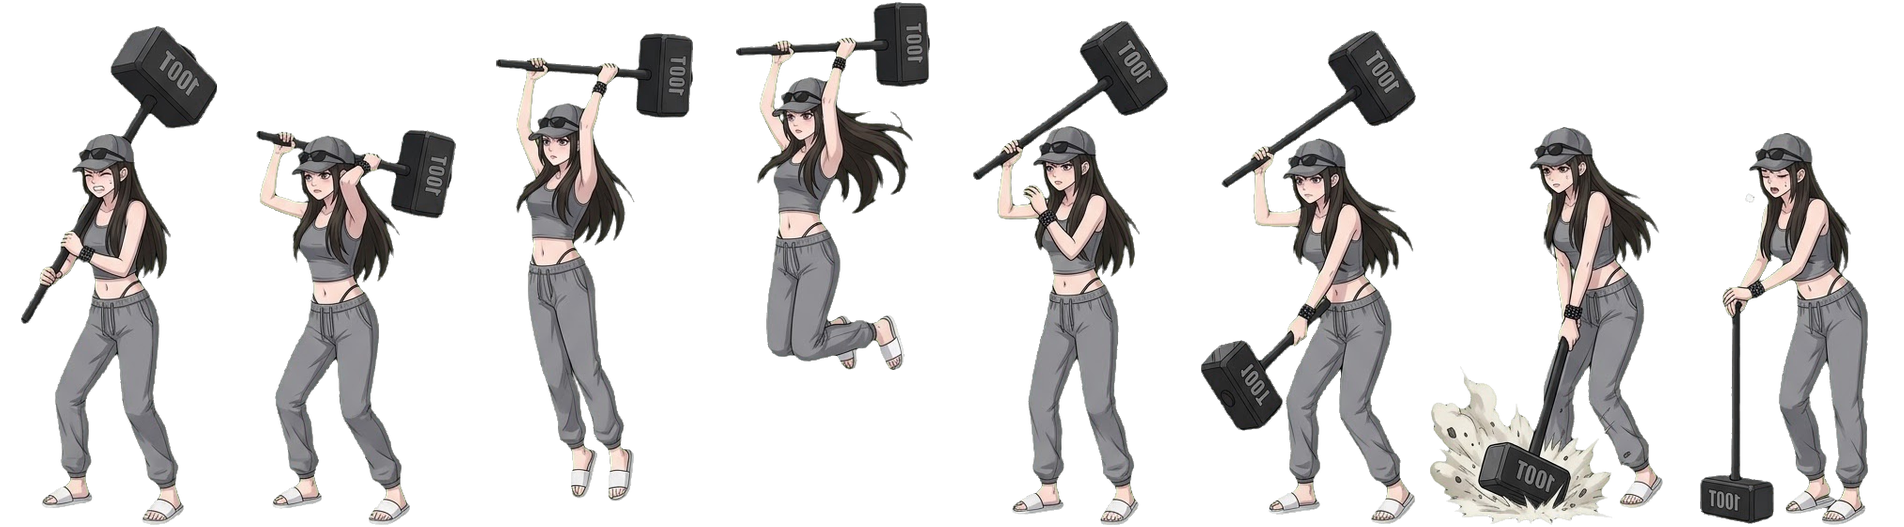
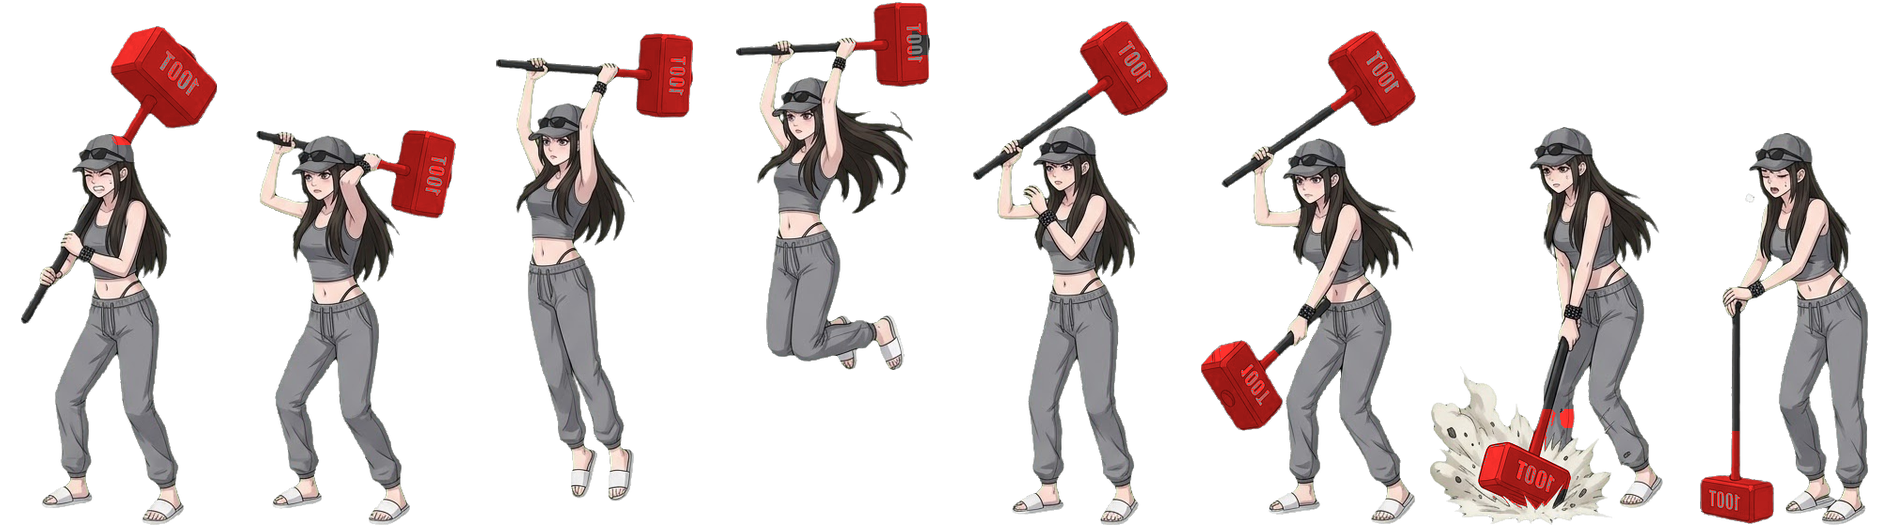
小妮攻擊動畫放慢（5／4 格每秒）、大錘改紅色；新增 hitFrame 讓傷害對上打擊那一格（版本 2026-11-15.18）
Claude-Session: https://claude.ai/code/session_01J1mi4tQsbQufTfnNbsrTar

diff --git a/js/render.js b/js/render.js
@@ -204,8 +204,9 @@ ML.createRenderer = function (canvas, game, config, sprite, effects, getLegend, 
         };
       } else if (!big) {
         // 普攻：衝過去砍一刀（2026-11-13 放慢放大：衝撞時間拉長、刀光變大、多一圈衝擊波）
-        v.lunge = { to: e.hits[0].id, t: 0, dur: 0.62 };
-        delay = 0.31;
+        const ai = sprite.animInfo(hero.heroId, 'attack'), hitT = ai && ai.hit;   // 動畫有登記打中的那一格（hitFrame）：衝撞和傷害的時間跟著它走（小妮的大錘慢動作）
+        v.lunge = { to: e.hits[0].id, t: 0, dur: hitT ? hitT * 2 : 0.62 };
+        delay = hitT || 0.31;
         onHit = tv => {
           effects.slash(tv.x, tv.y, Math.atan2(tv.y - v.y, tv.x - v.x), tv.size * 0.9, color);
           effects.sparks(tv.x, tv.y, '#ffe9a8', 22, 460, 6, 0.7);
@@ -223,8 +224,9 @@ ML.createRenderer = function (canvas, game, config, sprite, effects, getLegend, 
         if (!tv0) return;
 
         if (style === 'slam') {            // 猛將：衝過去重擊，地面裂開
-          after(charge, () => { v.lunge = { to: tv0.id, t: 0, dur: 0.72 }; startAnim(v, 'skill'); });
-          delay = charge + 0.36;
+          const si = sprite.animInfo(hero.heroId, 'skill'), hitS = si && si.hit;   // 同上：技能動畫有 hitFrame 就照它的時間
+          after(charge, () => { v.lunge = { to: tv0.id, t: 0, dur: hitS ? hitS * 2 : 0.72 }; startAnim(v, 'skill'); });
+          delay = charge + (hitS || 0.36);
           onHit = tv => {
             const ang = Math.atan2(tv.y - v.y, tv.x - v.x);
             effects.slash(tv.x, tv.y, ang, tv.size * 1.3, color);

diff --git a/js/config.js b/js/config.js
@@ -284,8 +284,8 @@ window.GAME_CONFIG = {
     // 蕃薯：待機＝吃薯條（8 格，每秒 3 格連播 2 輪）；攻擊／技能＝撲出去咬（8 格，第 5 格咬下去；普攻 13 格/秒、技能 11 格/秒）
     xiaoni: {
       idle: { src: 'xiaoni_idle.png', frames: 5, cw: 343, ch: 374, ground: 372, fps: 3, repeat: 2 },   // 待機：坐上沙發、躺著玩手機，旁邊對話泡泡裡的手機遊戲畫面會換（沒有跳起來的動作了）
-      attack: { src: 'xiaoni_attack.png', frames: 8, cw: 238, ch: 527, ground: 524, fps: 8 },   // 攻擊：100T 黑色大錘子跳起來慢慢往下砸（第 7 格砸中地面；故意放慢，普攻約 1 秒）
-      skill: { src: 'xiaoni_attack.png', frames: 8, cw: 238, ch: 527, ground: 524, fps: 6 },   // 技能：同一組，更慢更有份量（約 1.3 秒）
+      attack: { src: 'xiaoni_attack.png', frames: 8, cw: 238, ch: 527, ground: 524, fps: 5, hitFrame: 7 },   // 攻擊：100T 紅色大錘子跳起來慢慢往下砸（第 7 格砸中地面；2026-11-15 咖哩嫌太快：8→5 格/秒，整段約 1.6 秒，傷害數字對在第 7 格約 1.3 秒時）
+      skill: { src: 'xiaoni_attack.png', frames: 8, cw: 238, ch: 527, ground: 524, fps: 4, hitFrame: 7 },   // 技能：同一組，更慢更有份量（約 2 秒，第 7 格約 1.6 秒時打中）
       walk: { src: 'xiaoni_walk.png', frames: 8, cw: 252, ch: 394, ground: 391, fps: 9 },   // 走路循環：一手拿手機邊走（8 格，原圖本來就面向左）
     },
     yam: {

diff --git a/js/hero-sprite.js b/js/hero-sprite.js
@@ -92,7 +92,7 @@ ML.createHeroSprite = function (heroes, config, basePath) {
     // 這隻武將有沒有這個動作、圖準備好了沒；回傳 { 秒數 } 或 null
     animInfo(heroId, name) {
       const m = animMeta(heroId, name);
-      return m && loadSheet(heroId, name) ? { dur: m.frames * (m.repeat || 1) / (m.fps || 4) } : null;
+      return m && loadSheet(heroId, name) ? { dur: m.frames * (m.repeat || 1) / (m.fps || 4), hit: m.hitFrame ? (m.hitFrame - 0.5) / (m.fps || 4) : null } : null;   // hit：打中那一格是第幾秒（config 有寫 hitFrame 才有；動畫慢的武將用它讓傷害數字對上打擊那一格）
     },
     // (x, y) 是角色中心，size 是角色高度。state = { pose, poseTime, flash(0~1 閃白強度), lean(身體傾斜角度), facing(-1 面向左 ~ 1 面向右) }
     draw(ctx, hero, x, y, size, state) {

diff --git a/js/version.js b/js/version.js
@@ -1,3 +1,3 @@
 // 目前的版本號。每次有更新要上線，就跑 python3 tools/bump_version.py（會同時改這個檔和 version.json）。
 // 直播畫面會定時去讀 version.json，發現跟自己不一樣就自動更新（見 js/updater.js）。
-window.APP_VERSION = '2026-11-15.17';
+window.APP_VERSION = '2026-11-15.18';

diff --git a/CLAUDE.md b/CLAUDE.md
@@ -156,6 +156,7 @@
   - 西當普利鼠（2026-11-14 咖哩第五隻）：寫實倉鼠穿綠金鎧甲、拿羽扇，`heroId: hamster`，謀士（技能演出＝法陣落雷），血 600／攻 68／防 28，技能「起司風暴」。名字以外的設定是 Claude 先定的。**第一版圖（橘棕色卡通老鼠）臉、耳朵、鼻子、米白嘴部、尾巴都是《湯姆貓與傑利鼠》的傑利鼠，違反「不可使用其他作品角色」，沒有用**；咖哩改成寫實倉鼠後才採用（來源由咖哩自行負責）。待機動畫＝吃起司蛋糕（`assets/heroes/hamster_cake.png`，Gemini 生成，**10 格**，每秒 4 格連播 2 輪）。**這張圖的格子排列是 3＋3＋4（不是整齊的 4x2）**，所以 `make_anim_sheet.py` 新增 `--row-counts 3,3,4`（每列各自平分寬度），這組用 `--faces right --row-counts 3,3,4 --match-height 301 --equalize area`（原圖面向右；`match-height` 是單張圖裡角色的高度，因為角色橫向很寬、單張圖被縮得比 396 矮，要先量）。**攻擊／技能＝換成大錘子跳起來往下重擊**（`hamster_attack.png`，8 格，第 6 格落地砸中；普攻 16 格/秒約 0.5 秒、技能 8 格/秒約 1 秒）。這張圖要跳到空中，所以 `make_anim_sheet.py` 新增手動指定選項：`--cx`（每格身體中心 x）、`--feet`（每格腳底 y）、`--lift`（跳離地面多少）、`--scale`（直接給縮放）、`--cut x:y0-y1`（兩格的尾巴／武器黏在一起時切一條縫）；連通塊改成歸到「同列身體中心最近」那格（揮出去的武器、白色弧線才不會被分到隔壁格）。指令：`--faces right --grid 4x2 --cut 768:512-1024 --cx 150,410,650,900,165,400,650,870 --feet 400,400,405,410,890,978,990,998 --lift 0,0,25,55,75,0,0,0 --scale 0.885`（這些數字是 Claude 看圖量的）。**謀士的技能不是衝撞型，所以 `render.js` 新增：非衝撞型技能有 `skill` 動畫的武將，算好打中時間，提早約 0.65 秒開始播，讓打擊那一格剛好對上打中。** **走路**（`hamster_walk.png`）：原圖是 4x4 共 16 格（有黑色格線，`--erase-grid 5`），但有的格有羽扇有的沒有，直接播羽扇會忽有忽無，所以只挑有羽扇的 7 格（1~6、8）循環，每秒 9 格。驗證：瀏覽器測過上場、待機、普攻、技能、走路都有播、無錯誤；⚠ 沒在直播軟體裡看過，名冊圖與玩法說明圖還沒重新產生。
   - 蕃薯（2026-11-15 咖哩第六隻）：杜賓犬穿黑金紫披風戰甲（原圖是「黑虎」角色設定圖，咖哩說名字叫蕃薯），`heroId: yam`，猛將（技能演出＝衝撞地裂），血 928／攻 52／防 47（同米其林），技能「黑虎撲殺」。名字以外的設定是 Claude 先定的。單張圖：原圖是多視角設定圖，只裁出右上那隻大的站姿（`x 380~992, y 0~722`），並用白色蓋掉右上角的「黑虎」名牌，再用 `tools/cutout_hero.py` 去背（單張圖裡的狗高 376px，之後做動畫條 `--match-height 376`）。圖面向左。**待機＝吃薯條**（`yam_idle.png`，8 格，每秒 3 格連播 2 輪）、**攻擊／技能＝撲出去咬**（`yam_attack.png`，8 格，第 5 格咬下去；普攻 13 格/秒、技能 11 格/秒）。兩組 Gemini 圖都有黑色格線：待機是整齊 4x2（`--grid 4x2 --erase-grid 4 --scale 0.99`），但狗的右半邊（披風、尾巴）被格子邊界切掉一截；攻擊是 3＋2＋3 的不整齊排列、格線位置不等分，所以 `make_anim_sheet.py` 的 `--cut` 新增橫線寫法 `h298:0-1200`（直線仍是 `300:0-298`），指令：`--faces left --row-counts 3,2,3 --flip 3,4,5,6 --cut 300:0-298,710:0-298,h298:0-1200,h598:0-1200,600:298-598,456:598-896,900:598-896 --scale 1.38`（Gemini 把第 3~6 格畫成面向右，用 `--flip` 單獨翻成面向左；兩組圖的來源解析度不同，所以 `--scale` 不同：0.99／1.38 是把站姿的狗縮成單張圖的 376px 高）。撲咬的空中格沒做跳離地面的手動對位（用身體底部對齊），遊戲的衝撞位移本來就會把整隻帶向目標。**走路**（`yam_walk.png`，12 格，每秒 10 格）：原圖是 4x3 共 12 格有黑格線（`--grid 4x3 --erase-grid 4 --faces left --flip 10,11,12 --scale 1.34`），Gemini 把第 10~12 格畫成面向右，用 `--flip` 單獨翻面；有幾格姿勢很接近（1 與 2、5 與 6），走起來會有一點「停頓」感。驗證：瀏覽器測過上場、待機、普攻、技能、走路動畫都有播、無錯誤；⚠ 沒在直播軟體裡看過，攻擊圖有一個很小的雜點。
   - **米其林、大寶的專屬攻擊動畫**（2026-11-14）：米其林＝低頭衝撞頂飛（`michelin_attack.png`，8 格，第 5 格撞擊；普攻 13 格/秒、技能 11 格/秒）；大寶＝蓄力後嘴裡射出金色光球（`dabao_attack.png`，7 格，第 4 格光球射出；普攻 10 格/秒、技能 9 格/秒）。普攻、技能共用同一組。兩組都是 Gemini 生成，**排版不整齊**：米其林是 2 欄 4 列有黑格線（`--grid 2x4 --erase-grid 5`），而且 Gemini 把第 3~7 格畫成面向右，所以 `make_anim_sheet.py` 新增 `--flip 3,4,5,6,7`（個別幾格單獨左右翻面）；大寶是 3x3 共 9 格，其中第 5 格只有光球沒有狗、第 7 格狗被切掉一半，所以新增 `--pick 1,2,3,4,6,8,9`（只用指定的格，順序自訂），並用 `--cx/--feet --scale 1.29` 手動對位（光球和狗連在一起，自動判斷會偏）。大寶的光球是畫在動畫裡的，技能同時還有遊戲自己的光彈特效，兩個會同時出現。驗證：瀏覽器測過兩隻的普攻、技能動畫都有播、無錯誤；⚠ 沒在直播軟體裡看過。
+  - **小妮的攻擊改慢、錘子改紅**（2026-11-15 咖哩要求）：錘頭用程式把黑色改成紅色（原圖備份在 `/tmp` 不在 repo；手把還是黑的）；攻擊 5 格/秒、技能 4 格/秒，整段約 1.6／2 秒。**新機制 `hitFrame`**：`heroAnims.<id>.attack／skill` 可寫 `hitFrame: 7`（第幾格打中），衝撞時間與傷害數字就對在那一格（沒寫的武將仍是固定 0.31 秒）。驗證：瀏覽器測過普攻約 1.3 秒時傷害數字出現、錘子剛好砸在地上；⚠ 錘頭上色是程式按位置挑的，個別格子頭髮或手邊有零星紅點。
   - 觀眾第一次上場是「留言裡含武將名就算」，所以聊天提到「米其林餐廳」之類的詞也會讓還沒上場的人帶著米其林上場。
 - 同步方式：`python3 tools/sync_from_curry_games.py`（需要 Pillow），會重新產生 `data/heroes.js`，
   並把全身圖縮成 312x396 放到 `assets/heroes/`（原圖每張約 0.5MB，縮小後整包約 7MB）。
